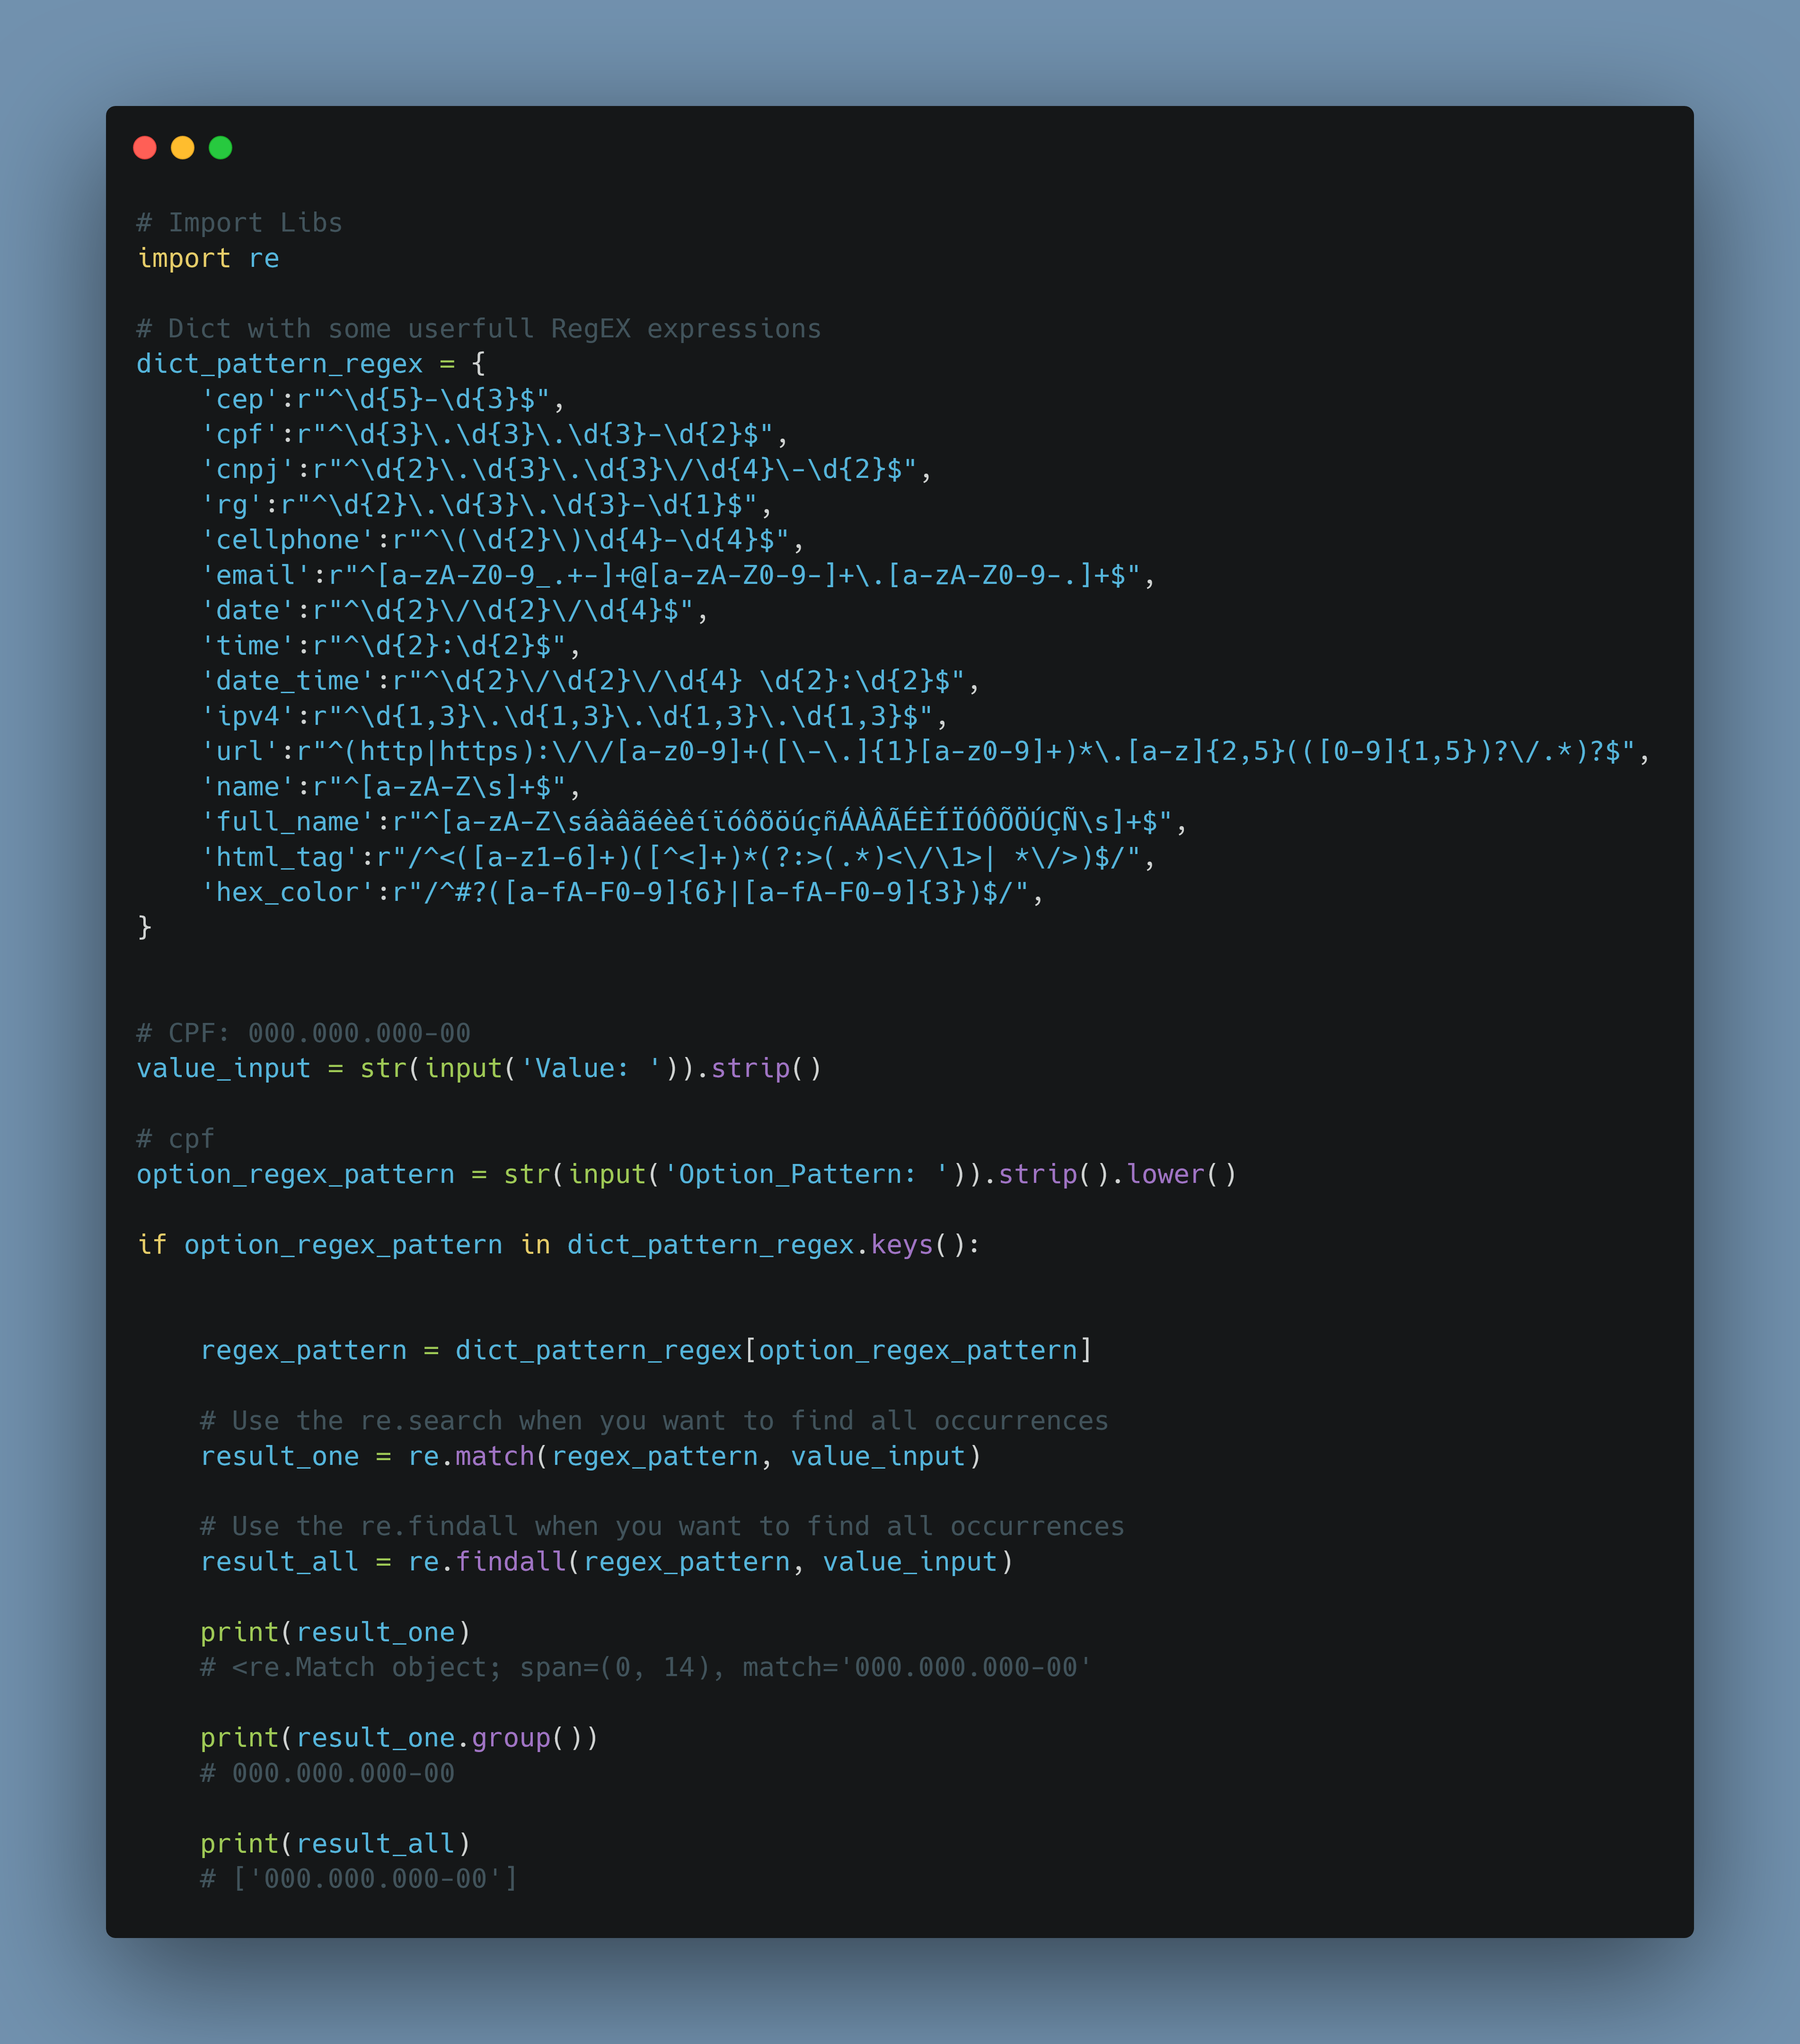
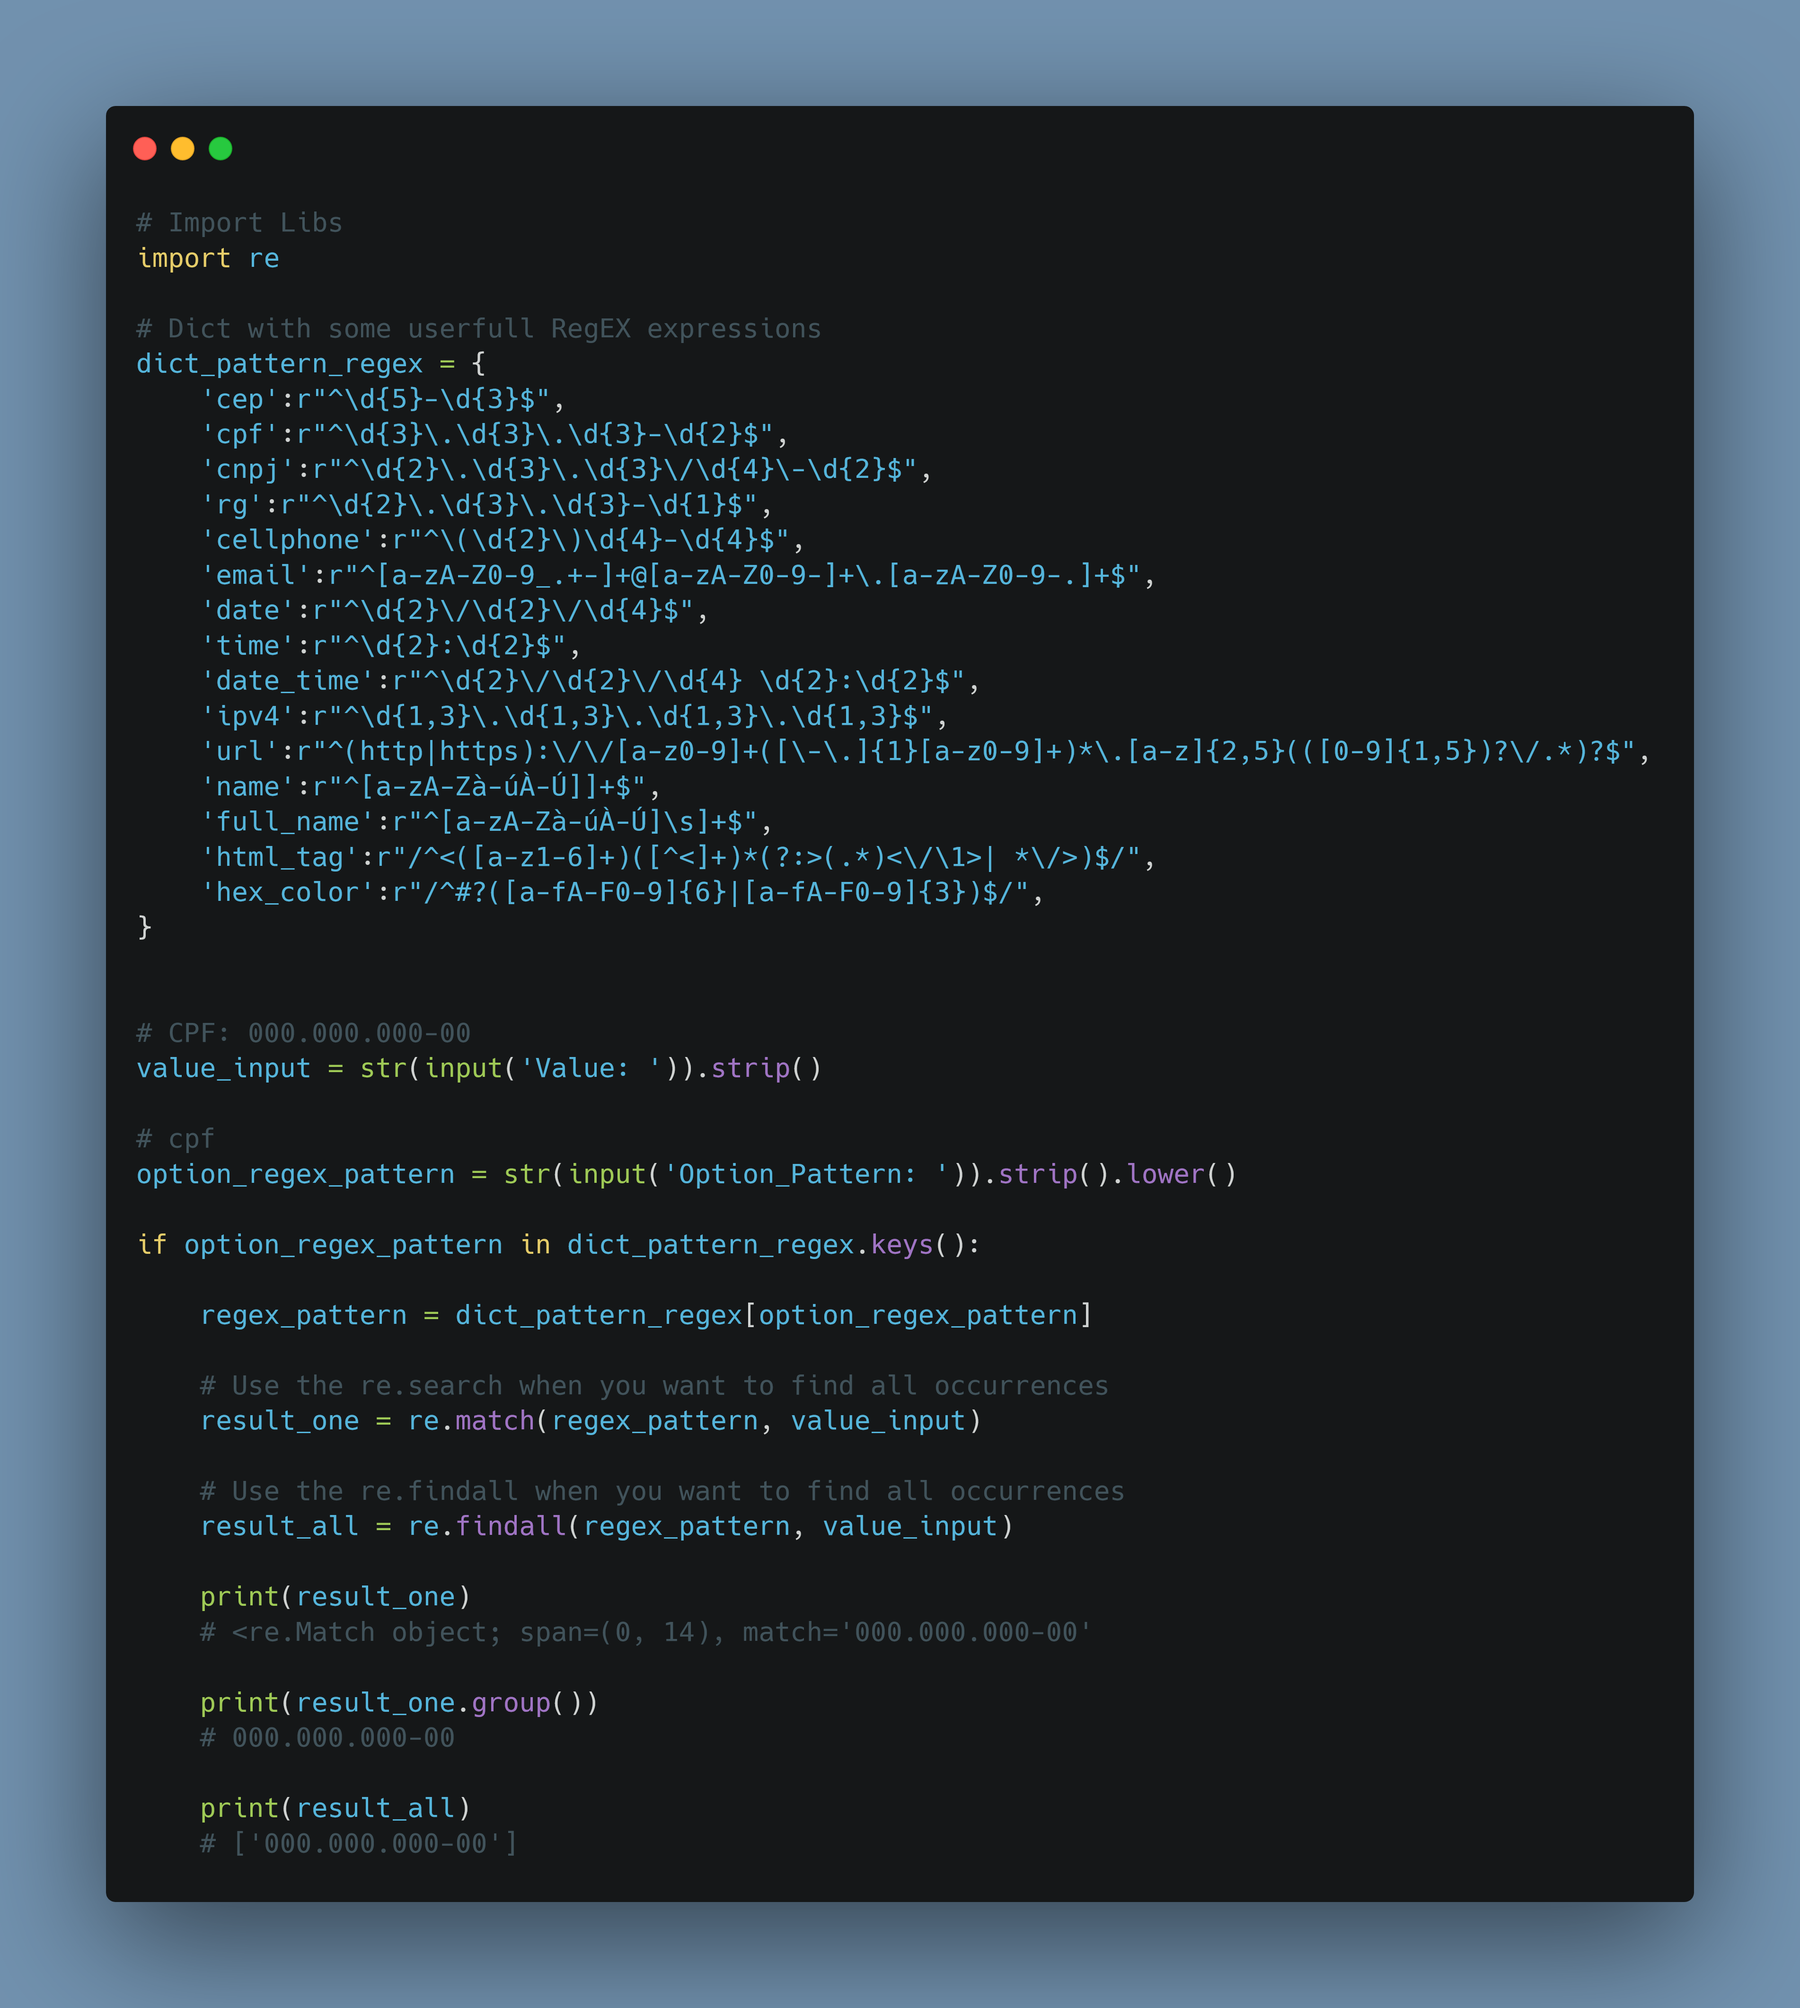
Upload Post Dia 18

diff --git a/Dia_18_mais_sobre_regex/main.py b/Dia_18_mais_sobre_regex/main.py
@@ -14,8 +14,8 @@ dict_pattern_regex = {
     'date_time':r"^\d{2}\/\d{2}\/\d{4} \d{2}:\d{2}$",
     'ipv4':r"^\d{1,3}\.\d{1,3}\.\d{1,3}\.\d{1,3}$",
     'url':r"^(http|https):\/\/[a-z0-9]+([\-\.]{1}[a-z0-9]+)*\.[a-z]{2,5}(([0-9]{1,5})?\/.*)?$",
-    'name':r"^[a-zA-Z\s]+$",
-    'full_name':r"^[a-zA-Z\sáàâãéèêíïóôõöúçñÁÀÂÃÉÈÍÏÓÔÕÖÚÇÑ\s]+$",
+    'name':r"^[a-zA-Zà-úÀ-Ú]]+$",
+    'full_name':r"^[a-zA-Zà-úÀ-Ú]\s]+$",
     'html_tag':r"/^<([a-z1-6]+)([^<]+)*(?:>(.*)<\/\1>| *\/>)$/",
     'hex_color':r"/^#?([a-fA-F0-9]{6}|[a-fA-F0-9]{3})$/",
 }
@@ -28,7 +28,6 @@ value_input = str(input('Value: ')).strip()
 option_regex_pattern = str(input('Option_Pattern: ')).strip().lower()
 
 if option_regex_pattern in dict_pattern_regex.keys():
-
 
     regex_pattern = dict_pattern_regex[option_regex_pattern]
 

diff --git a/Dia_18_mais_sobre_regex/README.md b/Dia_18_mais_sobre_regex/README.md
@@ -11,6 +11,8 @@
 ❓ RegEx it's a way of finding text patterns
 
 ℹ Link Dict: https://github.com/kilerhg/linkedin_publics/Dia_18_mais_sobre_regex/main.py
+
+
 ℹ Link Repository: https://github.com/kilerhg/linkedin_publics/
 ℹ Perfil GitHub: https://github.com/kilerhg
 ℹ Link Portfólio: https://lucasnunes.me
